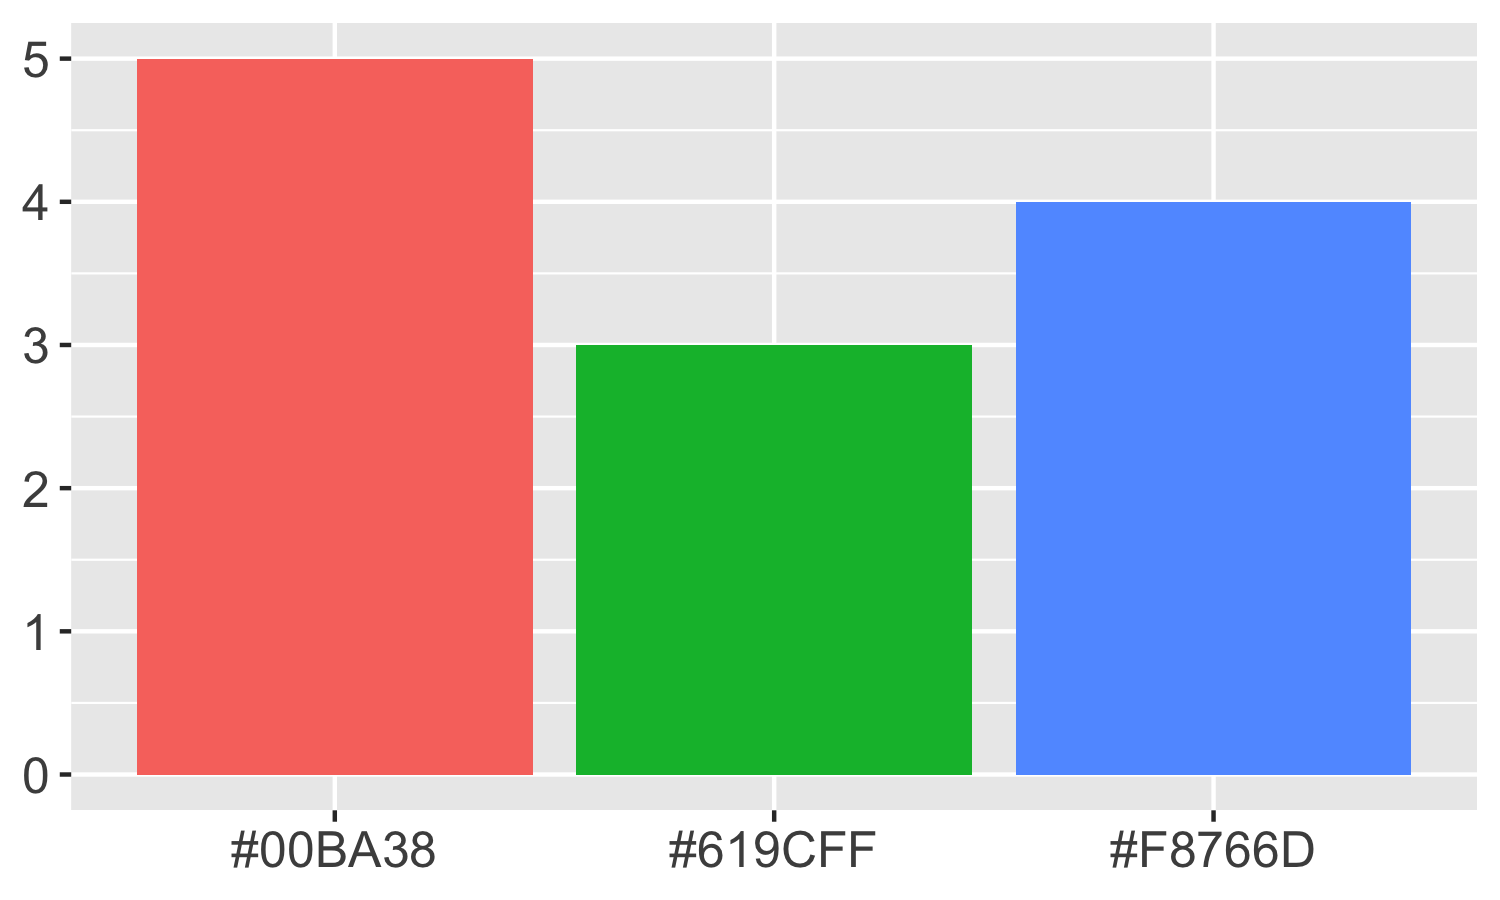
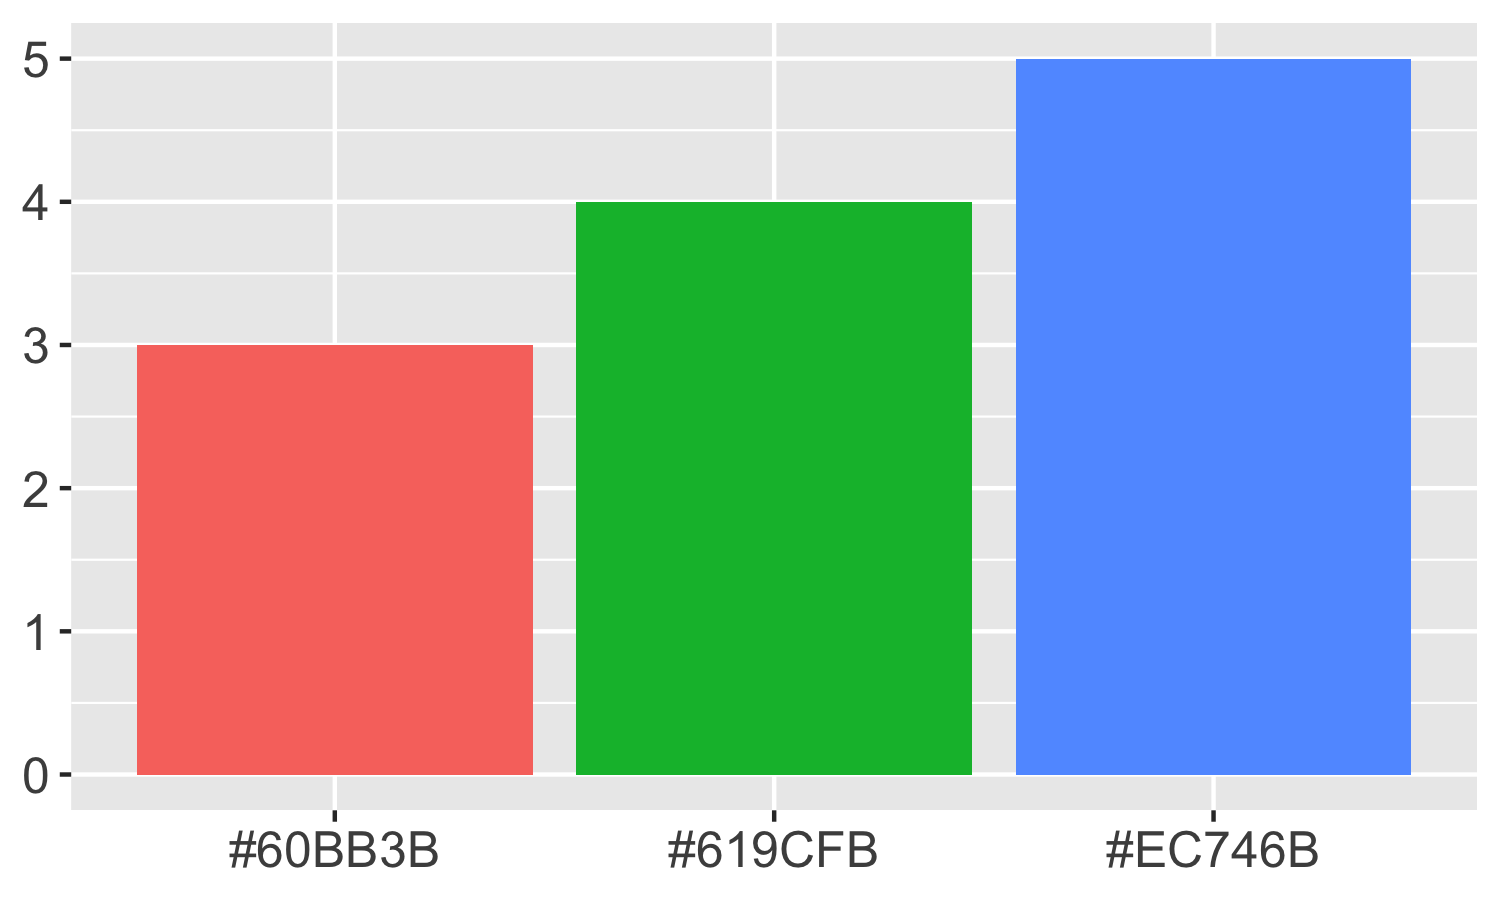
Adding color codes

diff --git a/README.md b/README.md
@@ -13,7 +13,7 @@ One of the most common triadic color schemes for statstical plots is the
 base color palette from R’s ggplot2 package. The standard discrete color
 palette for three colors produced through ggplot2 is the following:
 
-(\#F8766D, \#00BA38, \#619CFF)
+(\#EC746B, \#60BB3B, \#619CFB)
 
 <img src="ggplotStandard3.png" width=500 height=300/>
 
